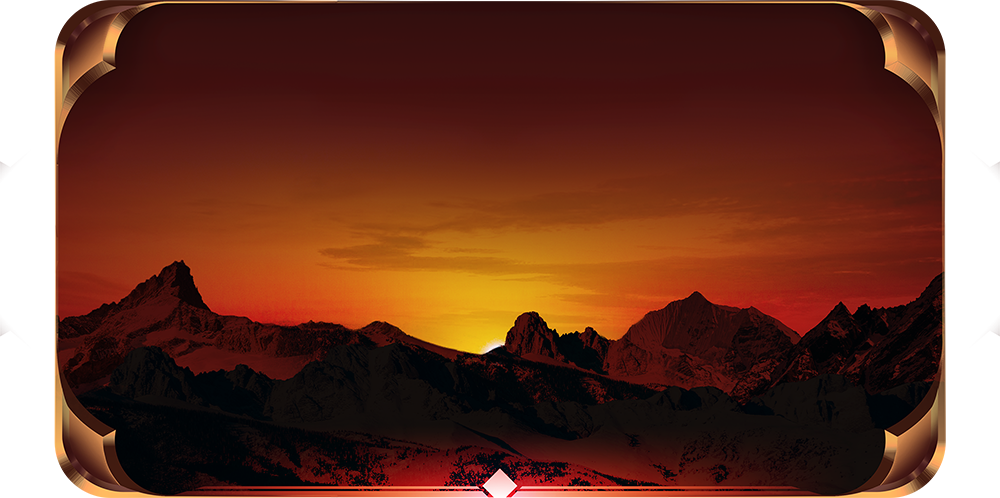
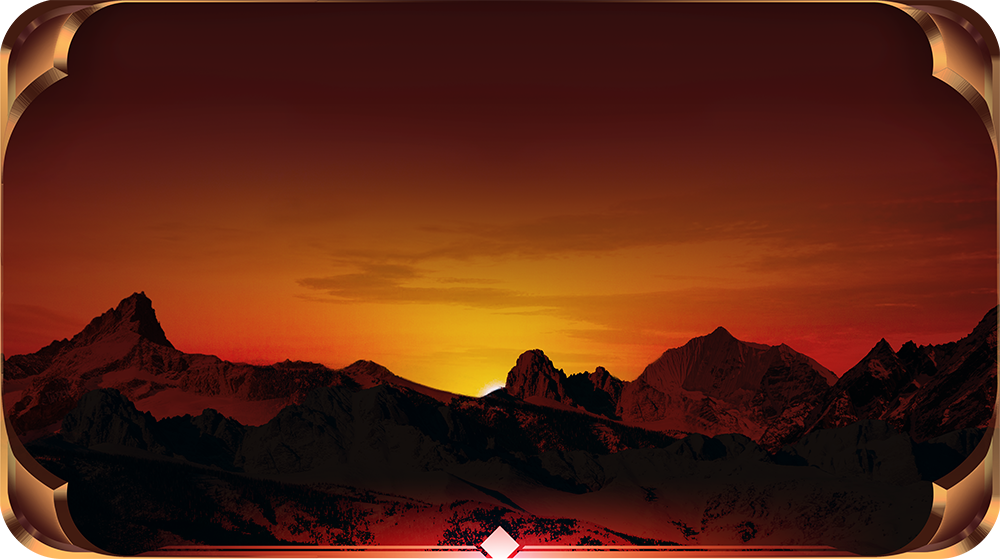
Update modal bg

Changed region(s): [[0.0, 0.0, 1.0, 1.0], [0.62, 0.8735, 0.651, 0.9036]]

diff --git a/src/scss/components/popup.scss b/src/scss/components/popup.scss
@@ -56,7 +56,7 @@
 
 .registration-popup {
     width: 300px;
-    height: 146px;
+    height: 168px;
 
     .popup__wrap {
         position: absolute;
@@ -94,10 +94,10 @@
         }
 
         @include media('>=desktop') {
-            padding-top: 22%;
+            padding-top: 26%;
 
             .email-input {
-                margin-bottom: 100px;
+                margin-bottom: 120px;
             }
 
             .btn {
@@ -111,7 +111,7 @@
     }
     @include media('>=desktop') {
         width: 1000px;
-        height: 496px;
+        height: 560px;
     }
 }
 
